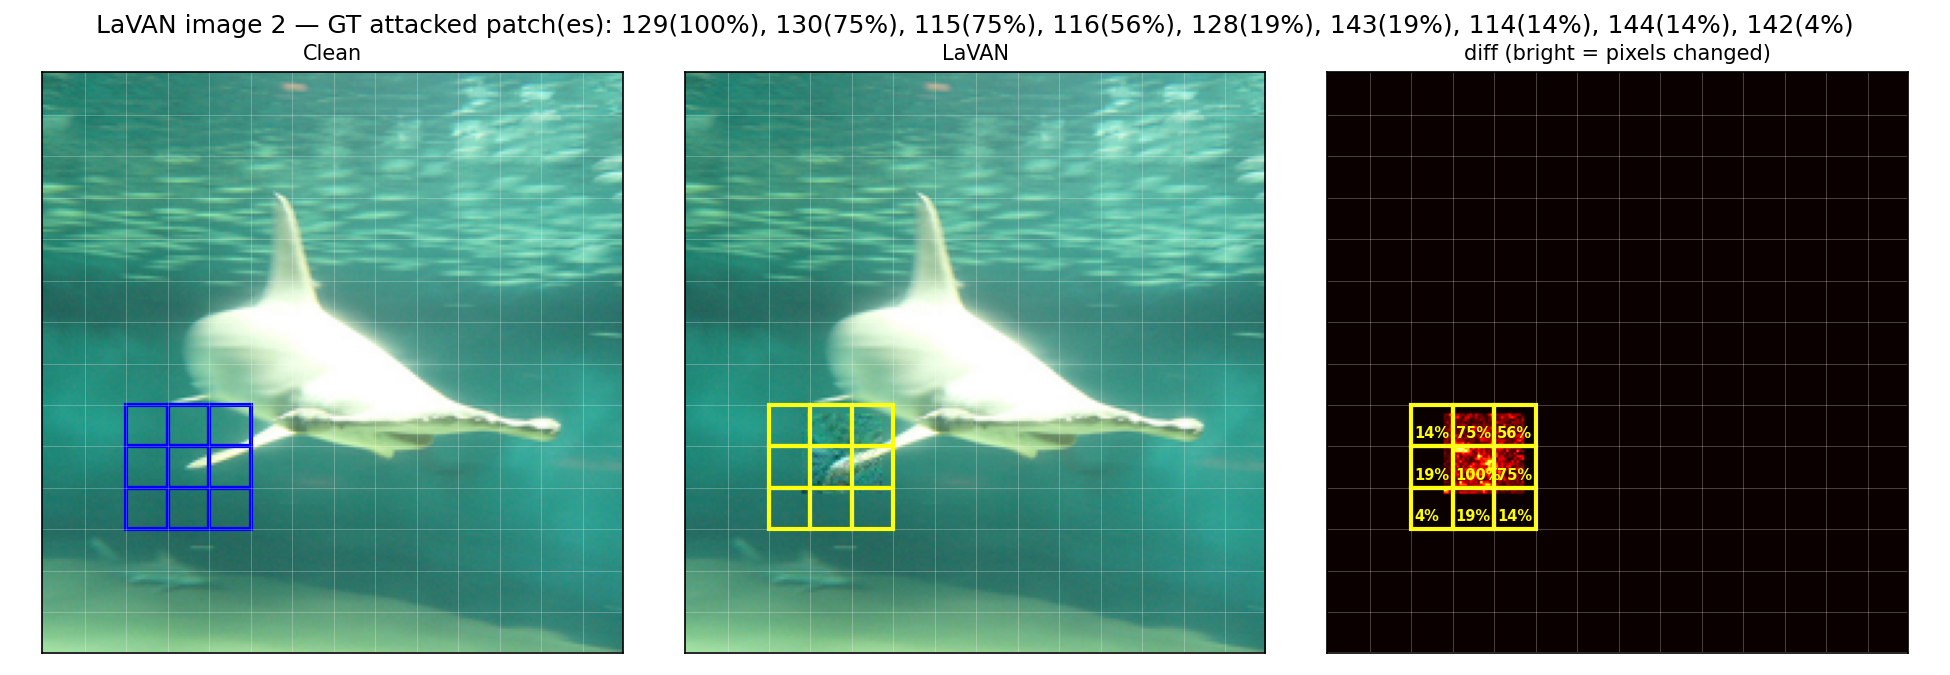
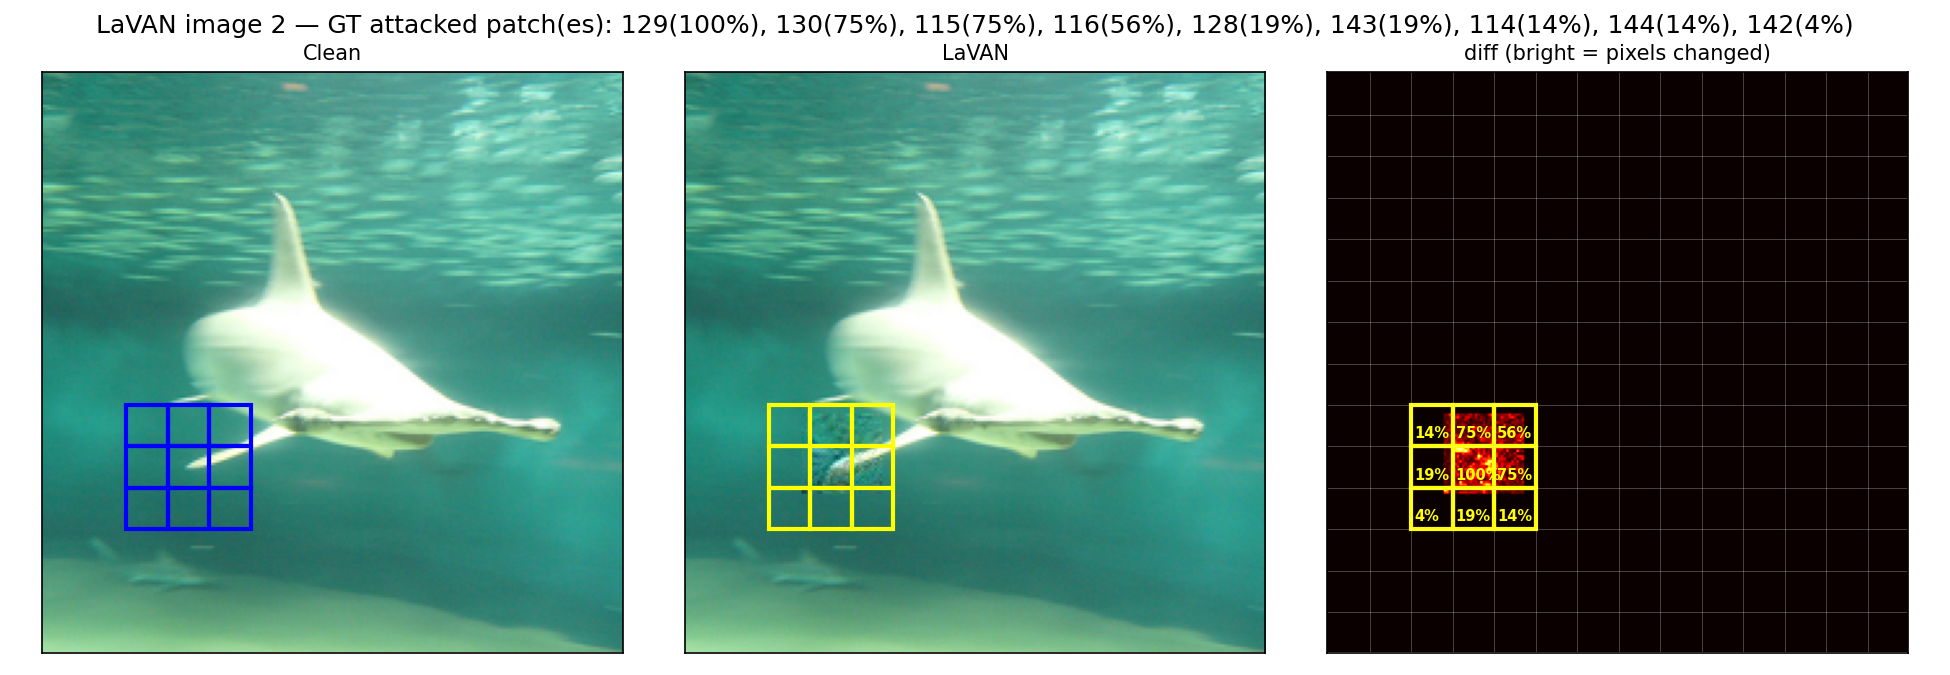
Drop full-image patch grid from LaVAN's clean/adv panels
The faint grid lines overlaid the small, subtle LaVAN perturbation and
made it harder to see. Grid now only appears on the diff panel (where
patch boundaries are actually useful context); the per-patch GT boxes
still draw on all three panels. PatchFool is unaffected -- its attack is
visually obvious regardless, and its output is unchanged (verified
byte-identical).

diff --git a/01_patch_attack_detector/ground_truth/gt_plot.py b/01_patch_attack_detector/ground_truth/gt_plot.py
@@ -63,15 +63,21 @@ def plot_gt_locations(repr_by_group, img_idx, group, out_path, gt_min_frac=0.01)
     show_pct = (group != 'patchfool')
 
     diff = np.abs(_unnormalize(adv_img) - _unnormalize(clean_img)).sum(axis=-1)
+    # LaVAN은 attention 대신 눈에 잘 안 띄는 작은 패치를 공격하는데, 격자선이 그 위에
+    # 겹치면 오히려 공격이 더 안 보인다 — clean/adv 두 사진은 격자 없이 원본 그대로
+    # 보여주고, 격자는 patch 경계가 실제로 필요한 diff 패널에만 그린다. PatchFool은
+    # 공격 자체가 이미 뚜렷한 노이즈라 격자가 있어도 안 가려서 그대로 둔다.
+    grid_panels = (0, 1, 2) if group != 'lavan' else (2,)
 
     fig, axes = plt.subplots(1, 3, figsize=(13, 4.5))
     panels = [(axes[0], _unnormalize(clean_img), 'Clean', CLEAN_BOX_COLOR, False),
               (axes[1], _unnormalize(adv_img), f'{GROUP_LABELS[group]}', ATTACK_BOX_COLOR, False),
               (axes[2], diff, 'diff (bright = pixels changed)', ATTACK_BOX_COLOR, show_pct)]
-    for ax, img, title, box_color, label_here in panels:
+    for i, (ax, img, title, box_color, label_here) in enumerate(panels):
         cmap = None if img.ndim == 3 else 'hot'
         ax.imshow(img, cmap=cmap)
-        _draw_patch_grid(ax)
+        if i in grid_panels:
+            _draw_patch_grid(ax)
         for p, frac in gt_patches:
             label = f'{frac:.0%}' if label_here else None
             _draw_patch_box(ax, p, box_color, label=label)
